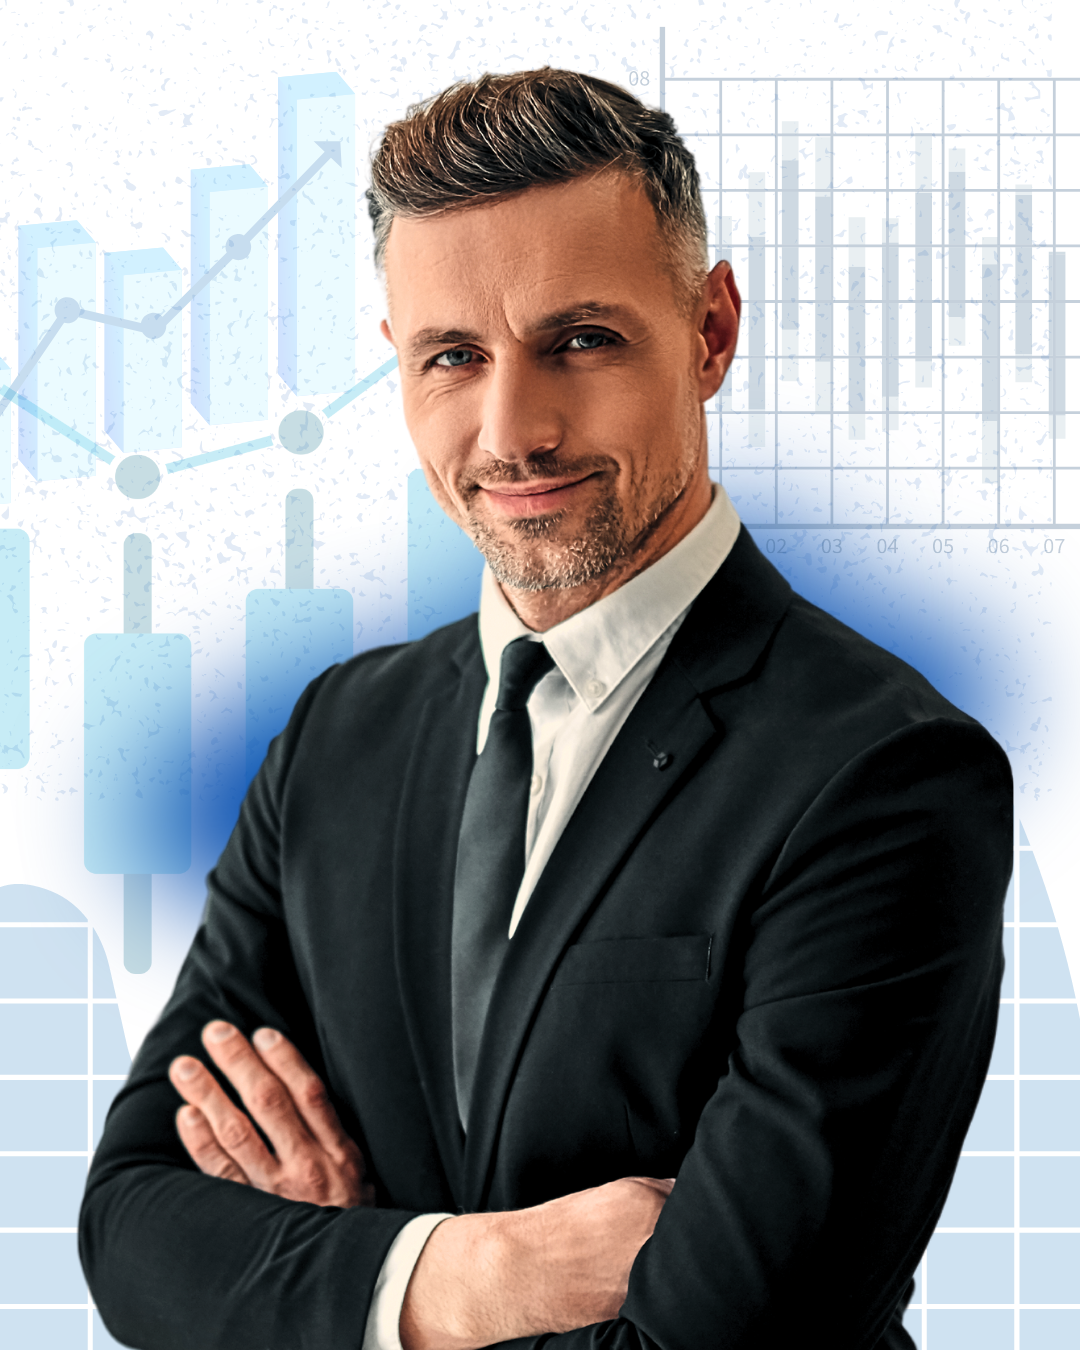
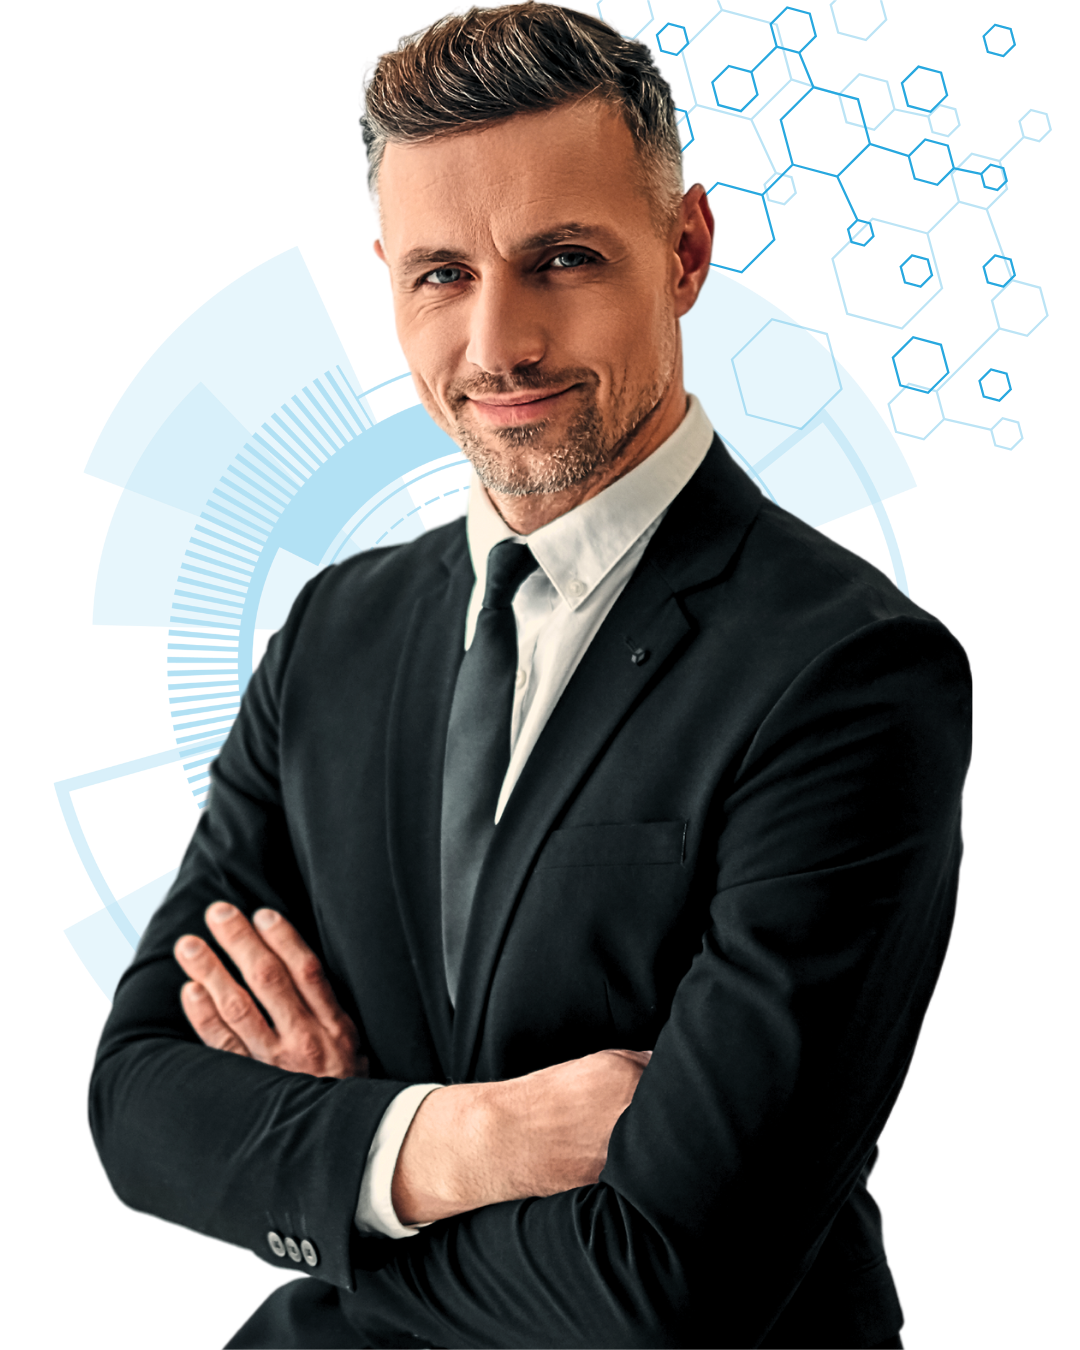
Edit home layout ;

diff --git a/src/components/common/SectionElement.tsx b/src/components/common/SectionElement.tsx
@@ -1,0 +1,61 @@
+import Image, { StaticImageData } from "next/image"
+
+import aboutShape_1 from "@/assets/img/about/2sm.webp";
+import aboutShape_2 from "@/assets/img/about/2s.webp";
+import aboutImg_1 from "@/assets/img/about/2.webp";
+import { Headset } from "react-bootstrap-icons";
+import { BlockquoteRight } from "react-bootstrap-icons";
+
+const IaElement = ({img, shapeOne, shapeTwo}:{img:StaticImageData , shapeOne?:boolean, shapeTwo?:boolean}) => {
+   return (
+      <div className="why-choose pd-top-100 pd-bottom-100">
+         <div className="container">
+            <div className="row">
+               <div className="col-lg-6 col-md-8 order-lg-last">
+                  <div className="about-mask-bg-wrap about-mask-bg-wrap-2 mb-4 mb-lg-0">
+                     {shapeOne&&<Image className="shape-image-sm top_image_bounce" src={aboutShape_1} alt="img" />}
+                     {shapeTwo&&<Image className="shape-image" src={aboutShape_2} alt="img" />}
+                     <div className="thumb">
+                        <Image src={img} alt="img" />
+                     </div>
+                  </div>
+               </div>
+               
+               <div className="col-lg-6 order-lg-first align-self-center">
+                  <div className="section-title px-lg-5 mb-0">
+                     <h5 className="sub-title right-line">Saia na frente da concorência.</h5>
+                     <h2 className="title">Soluções Com Inteligência Artificial</h2>
+                     <p className="content">
+                       Explore como a tecnologia pode revolucionar seu fluxo de trabalho e levar sua eficiência a novos níveis.
+                     </p>
+                     <div className="choose-wrap mt-4">
+                        <div className="media single-choose-inner">
+                          
+                              <div  style={{backgroundColor:"#0060FF", padding:"1rem", borderRadius:"100%", marginRight:"1rem"}}>
+                              < Headset size={20} width={25} height={25}  color="white"/>
+                              </div>
+                   
+                           <div className="media-body">
+                              <h4>ChatBots para seu Site ou App</h4>
+                              <p>Atendimento automatizado: chatbots e assistentes virtuais fornecem respostas rápidas aos clientes, liberando equipes para tarefas mais complexas. </p>
+                           </div>
+                        </div>
+                        <div className="media single-choose-inner mb-3">
+                            <div  style={{backgroundColor:"#0060FF", padding:"1rem", borderRadius:"100%", marginRight:"1rem"}}>
+                                 < BlockquoteRight size={20} width={25} height={25}  color="white"/>
+                              </div>
+                           <div className="media-body">
+                              <h4>Geração de Conteúdo Ilimitado</h4>
+                              <p>Serviço de geração de conteúdo automatizado com inteligência artificial para textos e vídeos, focado em eficiência e economia. Transforme sua estratégia conosco para resultados escaláveis e criativos. </p>
+                           </div>
+                        </div>
+                     </div>
+                  </div>
+               </div>
+            </div>
+         </div>
+      </div>
+   )
+}
+
+export default IaElement

diff --git a/src/components/homes/home-two/SkillArea.tsx b/src/components/homes/home-two/SkillArea.tsx
@@ -1,19 +1,19 @@
 import Skillbar from '@/components/common/Skillbar';
 import Image from 'next/image';
 
-import SkillImg_1 from '@/assets/img/other/4.webp';
+import SkillImg_1 from '@/assets/img/about/bussinesswoman2.png';
 import SkillImg_2 from '@/assets/img/other/5.webp';
 import SkillImg_3 from '@/assets/img/other/6.webp';
 
 const SkillArea = () => {
    return (
-      <div className="skill-area bg-relative pd-top-120 pd-bottom-120">
+      <div className="skill-area bg-relative pd-top-120">
          <div className="container">
             <div className="row">
-               <div className="col-lg-6 pe-5 mb-5 mb-lg-0">
+               <div className="col-lg-6 pe-5  mb-lg-0">
                   <div className="section-title mb-0">
-                     <h5 className="sub-title left-border">Aumente Seus Lucros </h5>
-                     <h2 className="title">Quanto seu negócio pode crescer com um serviço ou tecnologia de ponta? </h2>
+                     <h5 className="sub-title left-border">Digitalize Já! </h5>
+                     <h2 className="title">Crescimento de negócios que aplicam nossos serviços? </h2>
                      <p className="content">Dados de mercado garante que a tecnologia oferece vantagem sobre concorentes, e aumenta lucros e resultados em seguintes porcentagens:</p>
                   </div>
                   <div className="skill-progress-area mt-4">
@@ -21,28 +21,20 @@ const SkillArea = () => {
                   </div>
                </div>
 
-               <div className="col-lg-6 px-xl-5">
+               <div className="col-lg-6 px-xl-5 pd-botton-120 ">
                   <div className="row">
                      <div className="col-lg-12">
                         <div className="thumb border-radius-5 mb-4 image-hover-animate">
                            <Image src={SkillImg_1} alt="img" />
                         </div>
                      </div>
-                     <div className="col-md-6">
-                        <div className="thumb border-radius-5 image-hover-animate mb-3 mb-md-0">
-                           <Image src={SkillImg_2} alt="img" />
-                        </div>
-                     </div>
-                     <div className="col-md-6">
-                        <div className="thumb border-radius-5 image-hover-animate">
-                           <Image src={SkillImg_3} alt="img" />
-                        </div>
-                     </div>
                   </div>
                </div>
             </div>
          </div>
+         <hr />
       </div>
+
    )
 }
 

diff --git a/src/data/ServiceData.ts b/src/data/ServiceData.ts
@@ -56,8 +56,33 @@ const service_data: DataType[] = [
    },
 
    // home_2
+
    {
       id: 1,
+      page: "home_2",
+      icon: "icomoon-application",
+      title: "Web design",
+      desc: "Criação e Desenvolvimento de landing pages, sites intitucionais e lojas virtuais/ Ecommerces.",
+      link:"/createsites"
+   },
+   {
+      id: 2,
+      page: "home_2",
+      icon: "icomoon-megaphone",
+      title: "Trafego Pago",
+      desc: "Criação de Anúncios e publicidade em grandes plataformas como Facebook, Intagram e Google. ",
+      link:"/trafego-pago"
+   },
+   {
+      id: 3,
+      page: "home_2",
+      icon: "icomoon-magnifiying-glass",
+      title: "Rankeamento Google",
+      desc: "Posicionamento no topo da lista dos principais mecanismos de busca como Google.",
+      link:"/seo"
+   },
+   {
+      id: 4,
       page: "home_2",
       icon: "icomoon-layer",
       title: "Criação de Apps",
@@ -65,46 +90,23 @@ const service_data: DataType[] = [
       link:"/desenvolvimento-de-aplicativos"
    },
    {
-      id: 2,
-      page: "home_2",
-      icon: "icomoon-application",
-      title: "Web design",
-      desc: "Criação e Desenvolvimento de  landing pages, sites intitucionais e lojas virtuais.",
-      link:"/createsites"
-   },
-   {
-      id: 3,
-      page: "home_2",
-      icon: "icomoon-megaphone",
-      title: "Trafego Pago",
-      desc: "Criação de Anúncios e publicidade em grandes plataformas como Facebook e Google. ",
-      link:"/trafego-pago"
-   },
-   {
-      id: 4,
+      id: 5,
       page: "home_2",
       icon: "icomoon-cloud-data",
       title: "Consultoria em T.I",
-      desc: "Analise desenvolvimento de soluções para transição de negócios para o mundo digital. ",
+      desc: "Analise desenvolvimento  de soluções personalizadas para transição de negócios para o mundo digital. ",
       link:"/consultoria-ti"
    },
 
    {
-      id: 5,
+      id: 6,
       page: "home_2",
       icon: "icomoon-lock",
       title: "Segurança Virtual",
       desc: "Analise, correção e prevenção de ataques e crimes constra  estruturas digitais. ",
       link:"/"
    },
-   {
-      id: 6,
-      page: "home_2",
-      icon: "icomoon-magnifiying-glass",
-      title: "Seo Rankeamento",
-      desc: "Posicionamento no topo da lista dos principais mecanismos de busca como Google.",
-      link:"/seo"
-   },
+
 
    // home_5
    

diff --git a/src/data/PricingData.ts b/src/data/PricingData.ts
@@ -53,7 +53,7 @@ const pricing_data: DataType[] = [
       id: 1,
       page: "home_2",
       plan: "Landing Page",
-      price: 998,
+      price: 798,
       subTitle:"Página de captura de leads",
       pricing_list: [{ icon: "fa fa-check", list: "Design Profissional" }, { icon: "fa fa-check", list: "Ultra Velocidade", }, { icon: "fa fa-check", list: "Integração com Email Marketing" }, { icon: "fa fa-check", list: "Instalação de Pixel." }, { icon: "fa fa-check", list: "Domínio Personalizado", }],
    },
@@ -61,7 +61,7 @@ const pricing_data: DataType[] = [
       id: 2,
       page: "home_2",
       plan: "Site Institucional",
-      price: 1559,
+      price: 998,
       subTitle:"Perfil Profisional e Empresarial",
       pricing_list: [{ icon: "fa fa-check", list: "Design Profissional" }, { icon: "fa fa-check", list: "Email Corporativo", }, { icon: "fa fa-check", list: "Domínio Grátis" }, { icon: "fa fa-check", list: "Otimização para buscas Google", }, { icon: "fa fa-check", list: "Página de Blog Inclusa" }],
    },
@@ -69,7 +69,7 @@ const pricing_data: DataType[] = [
       id: 3,
       page: "home_2",
       plan: "Loja Virtual",
-      price: 2989,
+      price: 2898,
       subTitle:"Venda De Produtos Online",
       pricing_list: [{ icon: "fa fa-check", list: "Design Profissional" }, { icon: "fa fa-check", list: "Email Corporativo", }, { icon: "fa fa-check", list: "Domínio Grátis" }, { icon: "fa fa-check", list: "Otimização para buscas Google", }, { icon: "fa fa-check", list: "Pagamento Crédito, Débito e Pix" }],
 

diff --git a/src/components/homes/home-two/Service.tsx b/src/components/homes/home-two/Service.tsx
@@ -3,14 +3,14 @@ import Link from "next/link"
 
 const Service = () => {
    return (
-      <div id="services" className="service-area pd-top-115 pd-bottom-90" style={{ backgroundImage: `url(/assets/img/bg/6.webp)` }}>
-         <div className="container">
-            <div className="section-title">
+      <div id="services" className="service-area pd-top-100 pd-bottom-80" style={{ backgroundImage: `url(/assets/img/bg/6.webp)` }}>
+         <div className="container ">
+            <div className="section-title ">
                <div className="row">
-                  <div className="col-xl-6 col-lg-7 mb-4 mb-lg-0">
-                     <h5 className="sub-title left-border">O que nos oferecemos?</h5>
-                     <h2 className="title">Oferecemos Diversos Serviços Digitais.</h2>
-                     <p className="content mt-2">Temos equipes com experts em diversas areas para garantir o sucesso do seu negócio.</p>
+                  <div className="row d-flex ">
+                     <h5 className="sub-title  text-center ">Experts em resultados</h5>
+                     <h2 className="title text-center">Veja Nossos Serviços</h2>
+                     <p className="content mt-2 text-center">Dominio total em tecnologia para garantir o sucesso do seu negócio.</p>
                   </div>
                   <div className="col-xl-6 col-lg-5 align-self-center">
                      <div className="btn-wrap text-md-end">

diff --git a/src/components/homes/home-two/About.tsx b/src/components/homes/home-two/About.tsx
@@ -22,7 +22,7 @@ const About = () => {
    };
 
    return (
-      <div className="about-area pd-top-90 pd-bottom-120">
+      <div className="about-area pd-top-90 pd-bottom-80">
          <div className="container">
             <div className="row">
                <div className="col-lg-6">
@@ -35,9 +35,9 @@ const About = () => {
                
                <div className="col-lg-6 align-self-center">
                   <div className="section-title px-lg-5 mb-0">
-                     <h5 className="sub-title left-border">Raciocine com Tecnologia</h5>
-                     <h2 className="title">Aumente os Lucros e Seja Referência de Mercado com Tecnologia.</h2>
-                     <p className="content-strong mt-2">Somos especialistas em desenvolvimento de tecnologia, que oferecem uma gigante vantagem no mercado.</p>
+                     <h5 className="sub-title left-border">Empreededores do Futuro</h5>
+                     <h2 className="title">Posicione-se no mercado como um profissional e aumente os lucros</h2>
+                     <p className="content-strong mt-2">Com nossas feraamentas e estratégias  seus clientes perceberam o alto valor dos seus produtos ou serviços.</p>
                      <ul className="nav nav-tabs tab-button-style mt-4" id="myTab" role="tablist">
                         {tab_title.map((tab, index) => (
                            <li key={index} className="nav-item">

diff --git a/src/components/homes/home-two/VideoArea.tsx b/src/components/homes/home-two/VideoArea.tsx
@@ -14,7 +14,8 @@ const VideoArea = () => {
                <div className="row justify-content-center">
                   <div className="col-lg-6 col-md-10">
                      <div className="section-title mb-4 style-white">
-                        <h2 className="title">Nós Fazemos Parte do Mercado do Futuro.</h2>
+                        <h2 className="title">"A melhor forma de prever o futuro, é criá-lo."</h2>
+                        <p style={{color:"white", fontStyle:"italic"}}>- Peter Drucker</p>
                      </div>
                      {/* <a onClick={() => setIsVideoOpen(true)} style={{ cursor: "pointer" }} className="video-play-btn video-play-btn-base" data-effect="mfp-zoom-in"><i className="fa fa-play"></i></a> */}
                   </div>

diff --git a/src/components/homes/home-two/index.tsx b/src/components/homes/home-two/index.tsx
@@ -16,17 +16,19 @@ import HeaderTwo from "@/layouts/headers/HeaderTwo"
 import Brand from "./Brand"
 import FooterOne from "@/layouts/footers/FooterOne"
 import Testimonial from "./Testimonial"
-
+import aboutImg_1 from "@/assets/img/sections/robot.png"
+import IaElement from "@/components/common/SectionElement"
 const HomeTwo = () => {
    return (
       <>
          <HeaderTwo />
          <Banner2 />
          <IntroArea />
-         <About />
+         <IaElement img={aboutImg_1} shapeOne={true}/>
          <Service />
-         <SkillArea />
+         <About />
          <Counter />
+         <SkillArea />
          <PricingPlan />
          <VideoArea />
          <WorkArea />

diff --git a/src/components/common/Skillbar.tsx b/src/components/common/Skillbar.tsx
@@ -7,20 +7,20 @@ interface DataType {
 
 const skill_data: DataType[] = [
    {
-      title: "Desenvolvimento de sites e apps",
-      percentage: 75,
+      title: "Site Profissional e Lojas Virtuais",
+      percentage: 72,
    },
    {
-      title: "Consultoria em T.I",
-      percentage: 95,
+      title: "Anúncios e Trafego Pago",
+      percentage: 85,
    },
    {
-      title: "Digital Marketing",
-      percentage: 75,
+      title: "Seo e Rankeamento no Google",
+      percentage: 64,
    },
    {
-      title: "Seo Rankamento",
-      percentage: 60,
+      title: "Social Media",
+      percentage: 70,
    },
 ]
 

diff --git a/src/components/homes/home-one/Banner.tsx b/src/components/homes/home-one/Banner.tsx
@@ -6,7 +6,7 @@ import { useParallax } from "@/hooks/TweenMax";
 import { useRef } from "react";
 
 import banner_1 from "@/assets/img/banner/6.webp";
-import banner_2 from "@/assets/img/banner/bannery.png";
+import banner_2 from "@/assets/img/banner/bannerw.png";
 
 const Banner = () => {
 
